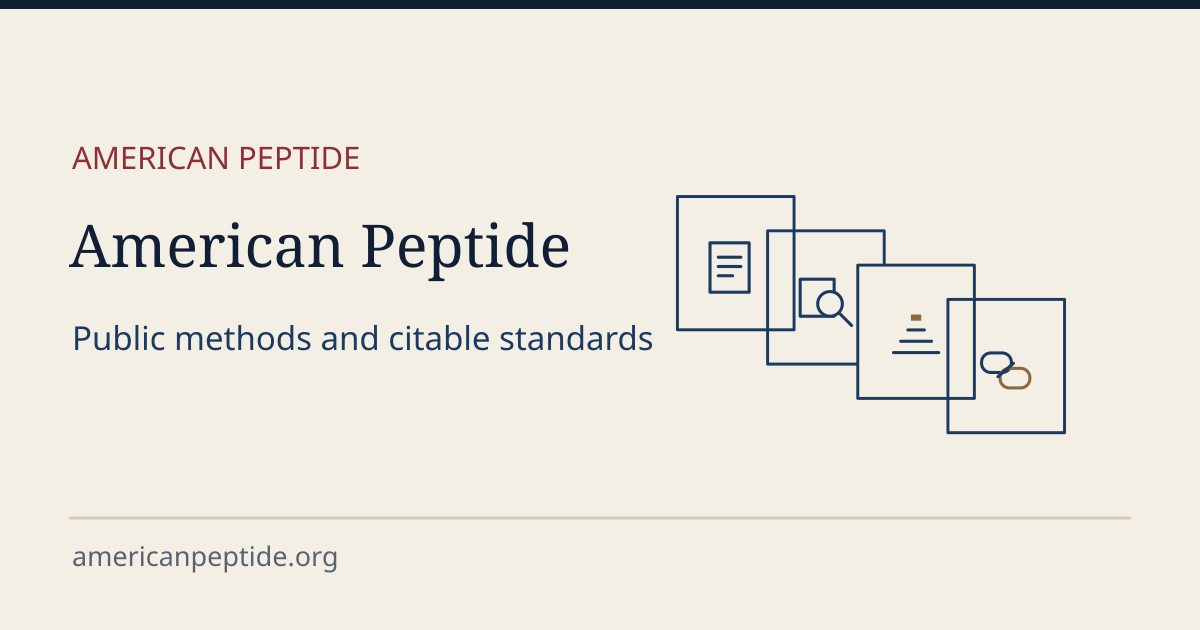
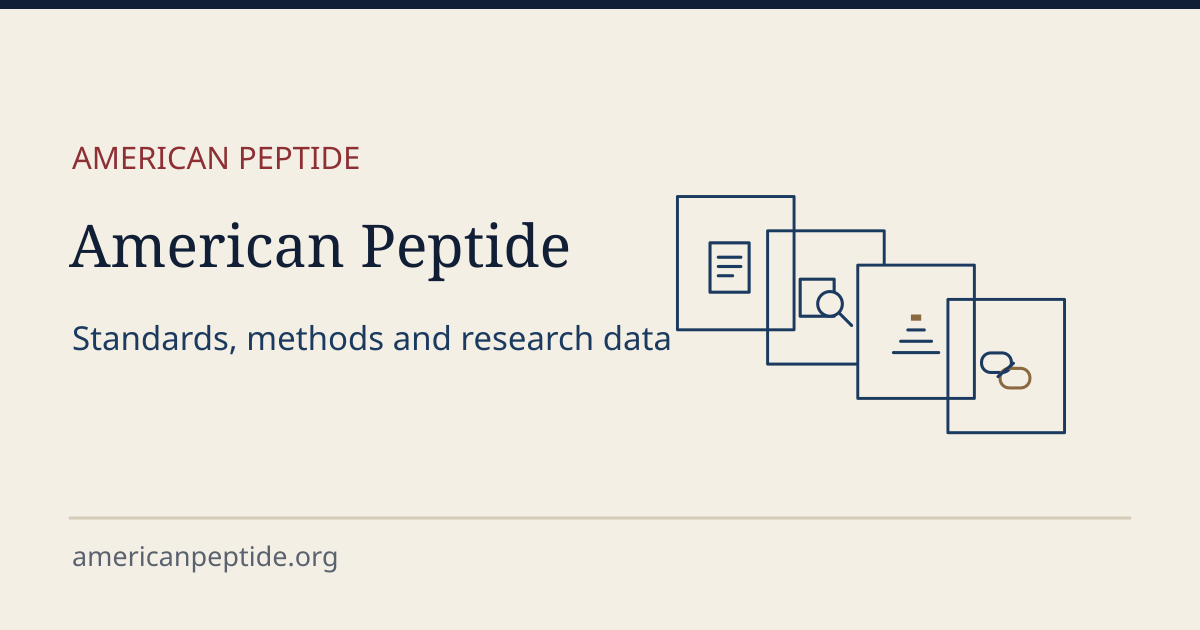
Establish American Peptide publication identity

Changed region(s): [[0.0617, 0.5127, 0.555, 0.573]]

diff --git a/app/layout.tsx b/app/layout.tsx
@@ -3,7 +3,7 @@ import type { Metadata } from "next";
 import { Source_Sans_3, Source_Serif_4 } from "next/font/google";
 import Link from "next/link";
 import "./globals.css";
-import { NAV, SITE } from "@/lib/site";
+import { COM, HOME_DESCRIPTION, HOME_TITLE, NAV, SITE, SITE_NAME } from "@/lib/site";
 import { Analytics } from "@vercel/analytics/next";
 
 const sans = Source_Sans_3({ subsets: ["latin"], variable: "--font-sans", display: "swap" });
@@ -11,9 +11,8 @@ const serif = Source_Serif_4({ subsets: ["latin"], variable: "--font-serif", dis
 
 export const metadata: Metadata = {
   metadataBase: new URL(SITE),
-  title: { default: "American Peptide · public methods", template: "%s · American Peptide" },
-  description:
-    "Public methods and citable standards for American Peptide. The evidence-tier schema, calculator methodology, and open dataset exports.",
+  title: { default: HOME_TITLE, template: "%s · American Peptide" },
+  description: HOME_DESCRIPTION,
   alternates: { canonical: "/" },
   icons: {
     icon: [
@@ -22,20 +21,8 @@ export const metadata: Metadata = {
     ],
     apple: [{ url: "/assets/icon-180.png", sizes: "180x180", type: "image/png" }],
   },
-  openGraph: {
-    type: "website",
-    siteName: "American Peptide · public methods",
-    url: SITE,
-    title: "American Peptide · public methods",
-    description:
-      "Public methods and citable standards for American Peptide. The evidence-tier schema, calculator methodology, and open dataset exports.",
-  },
-  twitter: {
-    card: "summary_large_image",
-    title: "American Peptide · public methods",
-    description:
-      "Public methods and citable standards for American Peptide. The evidence-tier schema, calculator methodology, and open dataset exports.",
-  },
+  openGraph: { type: "website", siteName: SITE_NAME },
+  twitter: { card: "summary_large_image" },
 };
 
 export default function RootLayout({ children }: { children: React.ReactNode }) {
@@ -47,7 +34,7 @@ export default function RootLayout({ children }: { children: React.ReactNode }) 
           <header className="top">
             <Link href="/" className="brand">
               <strong>American Peptide</strong>
-              <span>public methods</span>
+              <span>standards &amp; methods</span>
             </Link>
             <nav className="nav" aria-label="Primary">
               {NAV.map((item) => (
@@ -62,14 +49,26 @@ export default function RootLayout({ children }: { children: React.ReactNode }) 
           </main>
           <footer className="footer">
             <div className="wrap">
+              <div className="footer-groups">
+                <div>
+                  <strong>American Peptide</strong>
+                  <p>Open standards, methods, and research data.</p>
+                </div>
+                <nav aria-label="Project">
+                  <strong>Project</strong>
+                  <ul>
+                    <li><Link href="/changelog">Changelog</Link></li>
+                    <li><Link href="/errata">Errata</Link></li>
+                    <li><Link href="/cite">How to cite</Link></li>
+                    <li><Link href="/about#licensing">Licensing</Link></li>
+                  </ul>
+                </nav>
+                <div>
+                  <strong>Related property</strong>
+                  <p><a href={COM}>AmericanPeptide.com — Interactive tools</a></p>
+                </div>
+              </div>
               <PageCitation />
-              <p>
-                Public methods and research reference. Companion site: <a href="https://americanpeptide.com">americanpeptide.com</a>.
-              </p>
-              <p>
-                    Specifications and datasets: <a href="https://creativecommons.org/licenses/by/4.0/">CC BY 4.0</a>.
-                    Calculator modules: <a href="/open-source">MIT</a>. Artwork: <a href="/assets/LICENSE.md">CC BY 4.0</a>. <a href="/cite">How to cite</a>.
-              </p>
             </div>
           </footer>
         </div>

diff --git a/app/about/page.tsx b/app/about/page.tsx
@@ -1,0 +1,68 @@
+import type { Metadata } from "next";
+import Link from "next/link";
+import { COM, publisher, REPO, SITE, website } from "@/lib/site";
+
+const description =
+  "What the American Peptide Project publishes, how to cite and reuse its work, and how its publications relate to the interactive tools.";
+
+export const metadata: Metadata = {
+  title: "About the American Peptide Project",
+  description,
+  alternates: { canonical: "/about" },
+};
+
+export default function AboutPage() {
+  const ld = {
+    "@context": "https://schema.org",
+    "@type": "AboutPage",
+    "@id": `${SITE}/about#page`,
+    url: `${SITE}/about`,
+    name: "About the American Peptide Project",
+    description,
+    about: publisher,
+    isPartOf: website,
+  };
+
+  return (
+    <article className="prose">
+      <script type="application/ld+json" dangerouslySetInnerHTML={{ __html: JSON.stringify(ld) }} />
+      <h1>About the American Peptide Project</h1>
+      <p>
+        AmericanPeptide.org publishes public evidence standards, scientific and computational methods,
+        reference implementations, and versioned datasets for peptide science.
+      </p>
+      <h2>Publications and tools</h2>
+      <p>
+        AmericanPeptide.org publishes the specifications and research data.{" "}
+        <a href={COM}>AmericanPeptide.com</a> provides interactive calculators and a research catalog.
+        Where a published method has a corresponding tool, the method page links to it.
+      </p>
+      <h2>Evidence and methodology</h2>
+      <p>
+        The <Link href="/standards/evidence-tier">Evidence Tier Schema</Link> defines how factual claims
+        record provenance. The <Link href="/methods">calculator methods</Link> document formulas,
+        assumptions, and scope. The <Link href="/data">dataset exports</Link> identify upstream sources
+        and provide checksums and field schemas.
+      </p>
+      <h2>Versions, corrections, and citations</h2>
+      <p>
+        Use the <Link href="/changelog">changelog</Link> to track releases and <Link href="/errata">errata</Link>{" "}
+        to find documented corrections. Cite the exact specification release or dated dataset snapshot
+        you used. The <Link href="/cite">citation guide</Link> explains how to find versioned links and
+        download citation records.
+      </p>
+      <h2 id="licensing">Licensing and reuse</h2>
+      <p>
+        The specification, schemas, datasets, and <Link href="/assets/LICENSE.md">artwork</Link> are available under{" "}
+        <a href="https://creativecommons.org/licenses/by/4.0/">CC BY 4.0</a>. The{" "}
+        <Link href="/open-source">calculator modules</Link> are available under the MIT License.
+      </p>
+      <h2>Project record</h2>
+      <p>
+        The American Peptide Project is credited as the publisher. The{" "}
+        <a href={REPO}>public source repository</a> contains publication sources, release artifacts,
+        and revision history.
+      </p>
+    </article>
+  );
+}

diff --git a/app/data/page.tsx b/app/data/page.tsx
@@ -3,18 +3,45 @@ import type { Metadata } from "next";
 import Link from "next/link";
 import { citation, citationFile } from "@/lib/citations";
 import { DATASET_SNAPSHOT } from "@/lib/releases";
+import { publisher, SITE, SITE_NAME, website } from "@/lib/site";
 import datasets from "@/public/data/2026-11-18/manifest.json";
 
 export const metadata: Metadata = {
   title: "Open data",
   description: "Versioned CC BY 4.0 exports with checksums and field schemas.",
-  openGraph: { images: [{ url: "/assets/og-data.png", width: 1200, height: 630, alt: "Dataset exports. Public methods and standards." }] },
+  openGraph: { type: "website", siteName: SITE_NAME, url: "/data", images: [{ url: "/assets/og-data.png", width: 1200, height: 630, alt: "Dataset exports. Public methods and standards." }] },
   twitter: { card: "summary_large_image", images: ["/assets/og-data.png"] },
   alternates: { canonical: "/data" },
 };
 
 export default function DataPage() {
+  const formats: Record<string, string> = {
+    json: "application/json",
+    csv: "text/csv",
+    parquet: "application/vnd.apache.parquet",
+  };
+  const ld = {
+    "@context": "https://schema.org",
+    "@graph": datasets.map((dataset) => ({
+      "@type": "Dataset",
+      "@id": `${SITE}${dataset.files.json.url}#dataset`,
+      url: `${SITE}/data#${dataset.id}`,
+      name: dataset.title,
+      description: `${dataset.title}, a versioned export with ${dataset.rowCount} rows and a published field schema.`,
+      version: dataset.snapshot,
+      license: dataset.license,
+      creator: publisher,
+      isPartOf: website,
+      distribution: Object.entries(dataset.files).map(([format, file]) => ({
+        "@type": "DataDownload",
+        encodingFormat: formats[format],
+        contentUrl: `${SITE}${file.url}`,
+      })),
+    })),
+  };
+
   return <article className="prose">
+    <script type="application/ld+json" dangerouslySetInnerHTML={{ __html: JSON.stringify(ld) }} />
     <p className="kicker">Data · CC BY 4.0</p>
     <h1>Dataset exports</h1>
       <SectionHero name="data" />

diff --git a/app/page.tsx b/app/page.tsx
@@ -1,4 +1,5 @@
 import Link from "next/link";
+import { HOME_DESCRIPTION, publisher, website } from "@/lib/site";
 
 const CARDS = [
   {
@@ -30,25 +31,20 @@ const CARDS = [
 export default function HomePage() {
   const ld = {
     "@context": "https://schema.org",
-    "@type": "WebSite",
-    name: "American Peptide public methods",
-    url: "https://americanpeptide.org/",
-    description:
-      "Companion site to americanpeptide.com. Publishes the evidence tier schema, calculator methodology, and open data.",
-    publisher: { "@type": "Organization", name: "American Peptide Project", url: "https://americanpeptide.org/" },
+    ...website,
+    description: HOME_DESCRIPTION,
+    publisher,
   };
 
   return (
     <>
       <script type="application/ld+json" dangerouslySetInnerHTML={{ __html: JSON.stringify(ld) }} />
       <section className="hero">
-        <p className="kicker">Companion to americanpeptide.com</p>
+        <p className="kicker">The American Peptide Project</p>
         <h1>Standards you can cite.</h1>
-        <p className="lede">
-          americanpeptide.com runs the catalog, the agent, and the bench calculators. This site is the record those
-          tools follow: the evidence-tier schema, the math behind each calculator, and the tables under an open
-          license.
-        </p>
+        <p className="lede">Open standards, transparent scientific methodology, and citable research data for peptide science.</p>
+        <p>Explore the evidence framework, mathematical foundations, reference implementations, and versioned datasets that underpin the American Peptide Project.</p>
+        <p><Link href="/cite">How to cite a publication</Link> · <Link href="/open-source">Implement the specifications</Link></p>
       </section>
       <div className="grid">
         {CARDS.map((card) => (

diff --git a/app/open-source/page.tsx b/app/open-source/page.tsx
@@ -24,8 +24,7 @@ export default function OpenSourcePage() {
       <p>
         <code>packages/calculators</code> is dependency-free TypeScript: <code>reconstitution.ts</code>,{" "}
         <code>blend.ts</code>, <code>blend-screen.ts</code>, and <code>pharmacokinetics.ts</code>. The screen module
-        records the american-peptide commit it was checked against. Catalog lookup belongs to the product and stays
-        on americanpeptide.com. The arithmetic here is the reference those tools are written to match.
+        records the application source revision it was checked against.
         License: MIT. The written method, including edge cases the types do not express, is under{" "}
         <Link href="/methods">/methods</Link>.
       </p>
@@ -68,13 +67,7 @@ export default function OpenSourcePage() {
         live in the <Link href="/standards/evidence-tier/v0.1">spec</Link>, which a validator will not check for you
         beyond the required fields.
       </p>
-      <h2>What is not in this tree</h2>
-      <p>
-        The research agent, vendor trust scores, and the rendered catalog are the product itself and live in the
-        application repository behind americanpeptide.com. This project publishes the methods and standards they
-        follow; the dataset exports on <Link href="/data">/data</Link> are the part of that catalog it openly
-        redistributes.
-      </p>
+      <p>For the scope of the publications and their relationship to the interactive tools, see <Link href="/about">About the project</Link>.</p>
     </article>
   );
 }

diff --git a/app/standards/evidence-tier/page.tsx b/app/standards/evidence-tier/page.tsx
@@ -1,3 +1,4 @@
+import { SITE_NAME } from "@/lib/site";
 import { SectionHero, SchemaFlow } from "@/components/AssetPicture";
 import type { Metadata } from "next";
 import Link from "next/link";
@@ -5,7 +6,7 @@ import Link from "next/link";
 export const metadata: Metadata = {
   title: "Evidence Tier Schema",
   description: "Version index for the American Peptide Evidence Tier Schema.",
-  openGraph: { images: [{ url: "/assets/og-evidence.png", width: 1200, height: 630, alt: "Evidence Tier Schema. Public methods and standards." }] },
+  openGraph: { type: "website", siteName: SITE_NAME, url: "/standards/evidence-tier", images: [{ url: "/assets/og-evidence.png", width: 1200, height: 630, alt: "Evidence Tier Schema. Public methods and standards." }] },
   twitter: { card: "summary_large_image", images: ["/assets/og-evidence.png"] },
   alternates: { canonical: "/standards/evidence-tier" },
 };
@@ -16,8 +17,7 @@ export default function StandardsIndex() {
       <p className="kicker">Standard</p>
       <h1 className="page-title">Evidence Tier Schema</h1>
       <p className="lede">
-        Claim-level provenance for peptide reference data, and the grading the catalog on americanpeptide.com applies
-        to every figure it shows. A tier says where a number came from. It does not say how confident the prose
+        A claim-level provenance standard for peptide reference data. A tier says where a number came from. It does not say how confident the prose
         sounds, and it is not a study-design ladder.
       </p>
       <SectionHero name="evidence" />

diff --git a/app/methods/page.tsx b/app/methods/page.tsx
@@ -1,12 +1,13 @@
 import { SectionHero, AssetPicture } from "@/components/AssetPicture";
 import { methods } from "@/lib/calculator-methods";
+import { SITE_NAME } from "@/lib/site";
 import type { Metadata } from "next";
 import Link from "next/link";
 
 export const metadata: Metadata = {
   title: "Calculator methods",
   description: "Methodology for the American Peptide reconstitution, blend, and pharmacokinetic calculators.",
-  openGraph: { images: [{ url: "/assets/og-methods.png", width: 1200, height: 630, alt: "Calculator methods. Public methods and standards." }] },
+  openGraph: { type: "website", siteName: SITE_NAME, url: "/methods", images: [{ url: "/assets/og-methods.png", width: 1200, height: 630, alt: "Calculator methods. Public methods and standards." }] },
   twitter: { card: "summary_large_image", images: ["/assets/og-methods.png"] },
   alternates: { canonical: "/methods" },
 };
@@ -34,8 +35,7 @@ export default function MethodsPage() {
       </div>
       <p>
         Reference implementations: <Link href="/open-source">open-source modules</Link>. Worked numbers in the tests
-        match the examples on these pages, and the same math backs the calculators a reader runs on
-        americanpeptide.com.
+        match the examples on these pages.
       </p>
     </article>
   );

diff --git a/lib/site.ts b/lib/site.ts
@@ -2,11 +2,19 @@ export const SITE = "https://americanpeptide.org";
 export const COM = "https://americanpeptide.com";
 export const REPO = "https://github.com/utilityincoming/american-peptide-org";
 
+export const PROJECT_NAME = "American Peptide Project";
+export const SITE_NAME = "American Peptide";
+export const HOME_TITLE = "American Peptide | Open Standards, Methods & Research Data";
+export const HOME_DESCRIPTION =
+  "Explore the American Peptide Project’s public evidence standards, scientific methodology, reference implementations, and versioned open research datasets.";
+
+export const publisher = { "@type": "Organization", "@id": `${SITE}/#project`, name: PROJECT_NAME };
+export const website = { "@type": "WebSite", "@id": `${SITE}/#website`, name: SITE_NAME, url: `${SITE}/` };
+
 export const NAV = [
   { href: "/standards/evidence-tier", label: "Standards" },
   { href: "/methods", label: "Methods" },
   { href: "/data", label: "Data" },
-  { href: "/changelog", label: "Changelog" },
-  { href: "/errata", label: "Errata" },
   { href: "/open-source", label: "Open source" },
+  { href: "/about", label: "About" },
 ] as const;

diff --git a/app/standards/evidence-tier/v0.1/page.tsx b/app/standards/evidence-tier/v0.1/page.tsx
@@ -1,3 +1,4 @@
+import { SITE_NAME } from "@/lib/site";
 import type { Metadata } from "next";
 import { SpecPage } from "@/components/SpecPage";
 
@@ -5,7 +6,7 @@ export const metadata: Metadata = {
   title: "Evidence Tier Schema v0.1",
   description:
     "Citable public text of the American Peptide Evidence Tier Schema, version 0.1.1. Provenance tiers for factual claims.",
-  openGraph: { images: [{ url: "/assets/og-release-0.1.1.png", width: 1200, height: 630, alt: "Evidence Tier Schema. Release 0.1.1." }] },
+  openGraph: { type: "article", siteName: SITE_NAME, url: "/standards/evidence-tier/v0.1", images: [{ url: "/assets/og-release-0.1.1.png", width: 1200, height: 630, alt: "Evidence Tier Schema. Release 0.1.1." }] },
   twitter: { card: "summary_large_image", images: ["/assets/og-release-0.1.1.png"] },
   alternates: { canonical: "/standards/evidence-tier/v0.1" },
 };

diff --git a/app/standards/evidence-tier/0.1.0/page.tsx b/app/standards/evidence-tier/0.1.0/page.tsx
@@ -1,10 +1,11 @@
+import { SITE_NAME } from "@/lib/site";
 import type { Metadata } from "next";
 import { SpecPage } from "@/components/SpecPage";
 
 export const metadata: Metadata = {
   title: "Evidence Tier Schema 0.1.0 (archived)",
   description: "Archived Evidence Tier Schema 0.1.0, including the freshness-window defect corrected in 0.1.1.",
-  openGraph: { images: [{ url: "/assets/og-release-0.1.0.png", width: 1200, height: 630, alt: "Evidence Tier Schema. Release 0.1.0." }] },
+  openGraph: { type: "article", siteName: SITE_NAME, url: "/standards/evidence-tier/0.1.0", images: [{ url: "/assets/og-release-0.1.0.png", width: 1200, height: 630, alt: "Evidence Tier Schema. Release 0.1.0." }] },
   twitter: { card: "summary_large_image", images: ["/assets/og-release-0.1.0.png"] },
   alternates: { canonical: "/standards/evidence-tier/0.1.0" },
 };

diff --git a/app/standards/evidence-tier/0.1.1/page.tsx b/app/standards/evidence-tier/0.1.1/page.tsx
@@ -1,10 +1,11 @@
+import { SITE_NAME } from "@/lib/site";
 import type { Metadata } from "next";
 import { SpecPage } from "@/components/SpecPage";
 
 export const metadata: Metadata = {
   title: "Evidence Tier Schema 0.1.1",
   description: "Patch pin for Evidence Tier Schema 0.1.1. Same frozen text as /standards/evidence-tier/v0.1.",
-  openGraph: { images: [{ url: "/assets/og-release-0.1.1.png", width: 1200, height: 630, alt: "Evidence Tier Schema. Release 0.1.1." }] },
+  openGraph: { type: "article", siteName: SITE_NAME, url: "/standards/evidence-tier/0.1.1", images: [{ url: "/assets/og-release-0.1.1.png", width: 1200, height: 630, alt: "Evidence Tier Schema. Release 0.1.1." }] },
   twitter: { card: "summary_large_image", images: ["/assets/og-release-0.1.1.png"] },
   alternates: { canonical: "/standards/evidence-tier/0.1.1" },
 };

diff --git a/components/SpecPage.tsx b/components/SpecPage.tsx
@@ -1,7 +1,7 @@
 import fs from "node:fs";
 import path from "node:path";
 import { headingSlug, Markdown } from "@/lib/markdown";
-import { SITE } from "@/lib/site";
+import { publisher, SITE, website } from "@/lib/site";
 
 export function SpecPage({
   file,
@@ -30,7 +30,10 @@ export function SpecPage({
     url: `${SITE}${canonical}`,
     isAccessibleForFree: true,
     license: "https://creativecommons.org/licenses/by/4.0/",
-    author: { "@type": "Organization", name: "American Peptide Project", url: SITE },
+    author: publisher,
+    publisher: { "@id": publisher["@id"] },
+    isPartOf: website,
+    "@id": `${SITE}${canonical}#article`,
     citation: `American Peptide Project. Evidence Tier Schema, version ${version}. 18 November 2026. ${SITE}${canonical}`,
   };
   return (
